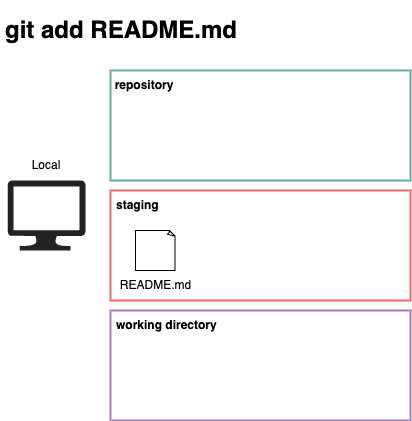
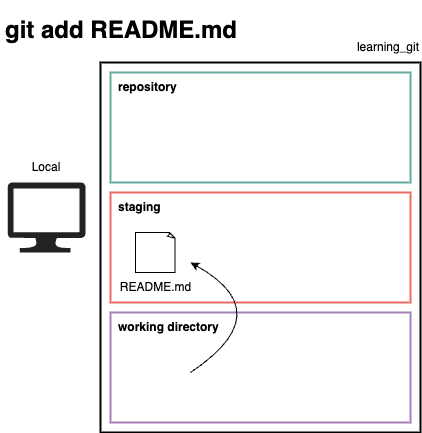
Replace git image

Changed region(s): [[0.0, 0.0926, 1.0, 1.0], [0.0, 0.0309, 0.5825, 0.1235], [0.4369, 0.8337, 0.4951, 0.8646]]

diff --git a/01_Start.md b/01_Start.md
@@ -104,7 +104,7 @@ GitHub の設定
 
 ### ローカルGitリポジトリを作成する
 
-![図：git init のイメージ](img/01_Start_Git_git-add.png)
+![図：git init のイメージ](img/01_Start_Git_git-init.png)
 
 ⚠ 準備ガイド, [準備内容 - 00_Prep.md](00_Prep.md), に記載されている手順をすでに完了していることを確認してください。
 
@@ -142,7 +142,7 @@ GitHub の設定
 
 ### README.md ファイルの追加
 
-![図：ファイルを作成しているイメージ](img/01_Start_Git_edit-file.png)
+![図：ファイルを作成しているイメージ](img/01_Start_Git_create-file.png)
 
 1. README.md ファイルを作成します.
 
@@ -261,7 +261,7 @@ nothing to commit, working tree clean
 
 ![図：git add remote のイメージ](img/01_Start_Git_git-remote.png)
 
-![図：git push のイメージ](img/02_Branches_Push.png)
+![図：git push のイメージ](img/01_Start_Git_git-push.png)
 
 repository を `push` しましょう！
 GitHub の `Clone or download` ボタンをクリックし, HTTPS リンクをコピーして URL を取得します

diff --git a/01_Start_EN.md b/01_Start_EN.md
@@ -90,6 +90,8 @@ Connect the Local Folder with GitHub
 
 ### Create a Local Repository
 
+![Figure：Image of git init](img/01_Start_Git_git-init.png)
+
 ⚠ Verify that you went through the Prep Guide: [Prep - 00_Prep_EN.md](00_Prep_EN.md)
 
 ⚡ Where to run the commands?
@@ -125,6 +127,8 @@ Connect the Local Folder with GitHub
 ---
 
 ### Add a README.md File
+
+![Figure：Image of creating a file](img/01_Start_Git_create-file.png)
 
 1. Create a README.md file
 
